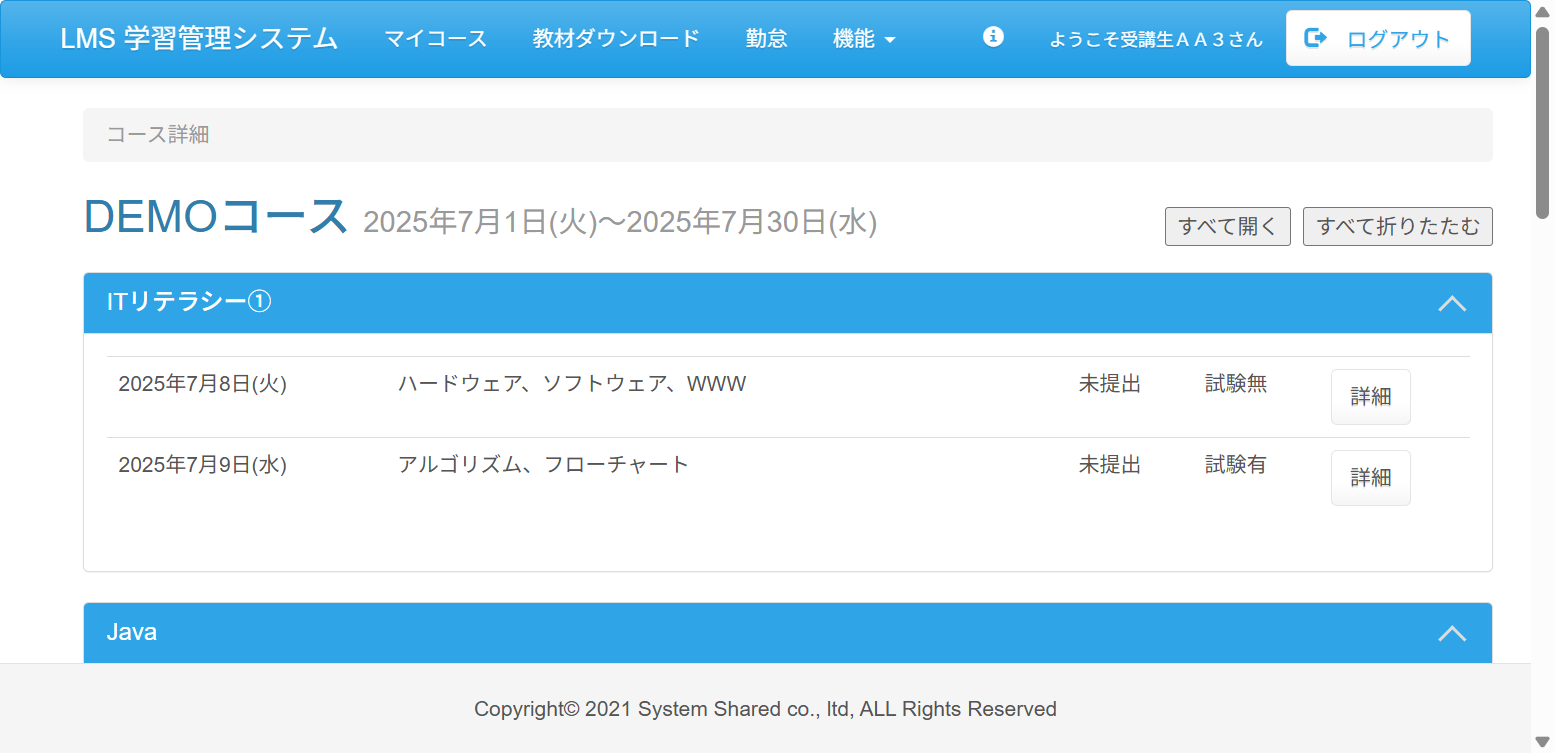
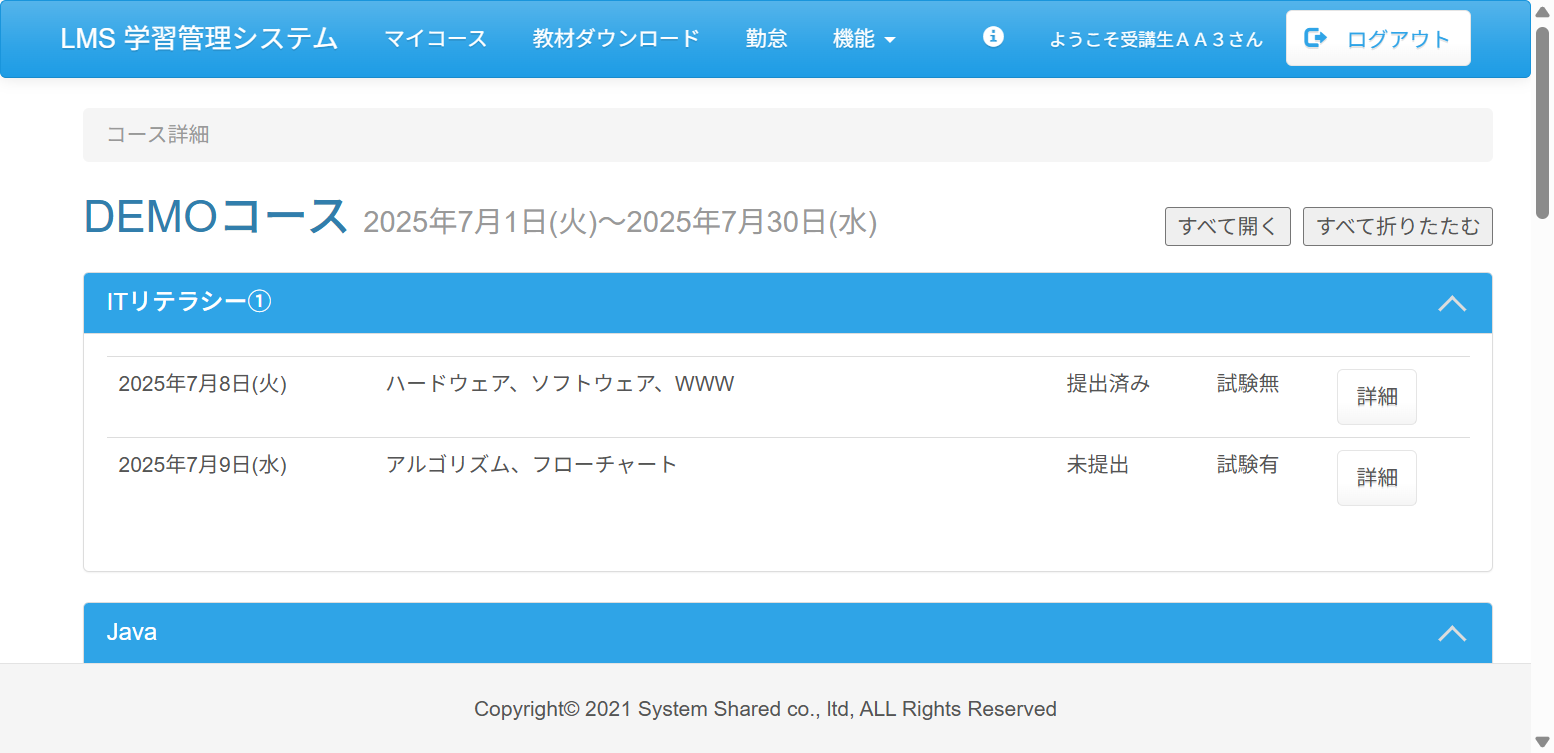
fix 水谷 Case07実装完了

diff --git a/test_code_creation_name/src/test/java/jp/co/sss/lms/ct/f03_report/Case07.java b/test_code_creation_name/src/test/java/jp/co/sss/lms/ct/f03_report/Case07.java
@@ -109,7 +109,7 @@ public class Case07 {
 	void test04() {
 
 		final WebElement reportRegistButton = WebDriverUtils.webDriver
-				.findElement(By.cssSelector("input[value='日報【デモ】を提出する']"));
+				.findElement(By.cssSelector("input.btn.btn-default"));
 		reportRegistButton.click();
 
 		//sectionServiceDailyReportDto
@@ -123,33 +123,31 @@ public class Case07 {
 		});
 
 	}
-	//
-	//	@Test
-	//	@Order(5)
-	//	@DisplayName("テスト05 報告内容を入力して「提出する」ボタンを押下し確認ボタン名が更新される")
-	//	void test05() {
-	//
-	//		final WebElement reportText = WebDriverUtils.webDriver.findElement(By.tagName("textarea"));
-	//		reportText.clear();
-	//		reportText.sendKeys("テスト");
-	//
-	//		final WebElement registCompleteButton = WebDriverUtils.webDriver
-	//				.findElement(By.cssSelector("fieldset button.btn.btn-primary"));
-	//		registCompleteButton.click();
-	//		
-	//		final WebDriverWait wait = new WebDriverWait(WebDriverUtils.webDriver, Duration.ofSeconds(60));
-	//		wait.until(ExpectedConditions.visibilityOfElementLocated(By.className("table")));
-	//
-	//		final WebElement target = WebDriverUtils.webDriver
-	//				.findElement(By.cssSelector("         "));
-	//		String buttonName = target.getText();
-	//		
-	//		
-	//		assertEquals(buttonName,"提出済み日報【デモ】を確認する");
-	//		
-	//		
-	//		WebDriverUtils.getEvidence(new Object() {
-	//		});
-	//	}
+
+	@Test
+	@Order(5)
+	@DisplayName("テスト05 報告内容を入力して「提出する」ボタンを押下し確認ボタン名が更新される")
+	void test05() {
+
+		final WebElement reportText = WebDriverUtils.webDriver.findElement(By.tagName("textarea"));
+		reportText.clear();
+		reportText.sendKeys("テスト");
+
+		final WebElement registCompleteButton = WebDriverUtils.webDriver
+				.findElement(By.cssSelector("fieldset button.btn.btn-primary"));
+		registCompleteButton.click();
+
+		final WebDriverWait wait = new WebDriverWait(WebDriverUtils.webDriver, Duration.ofSeconds(60));
+		wait.until(ExpectedConditions.visibilityOfElementLocated(By.className("table")));
+
+		final WebElement target = WebDriverUtils.webDriver
+				.findElement(By.cssSelector("input.btn.btn-default"));
+		String buttonName = target.getAttribute("value");
+
+		assertEquals(buttonName, "提出済み日報【デモ】を確認する");
+
+		WebDriverUtils.getEvidence(new Object() {
+		});
+	}
 
 }
